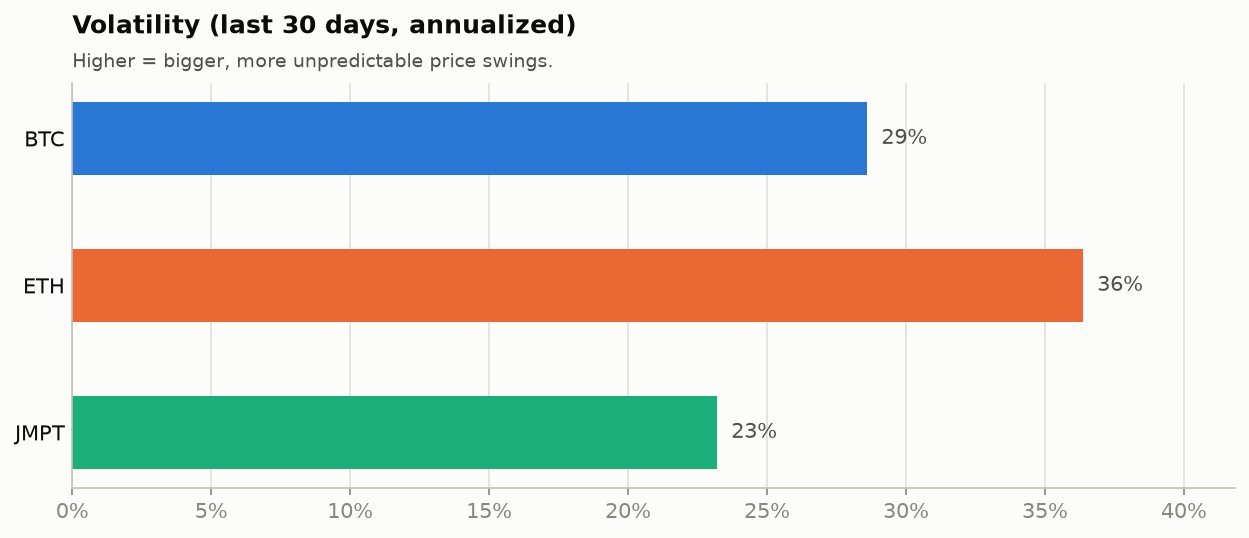
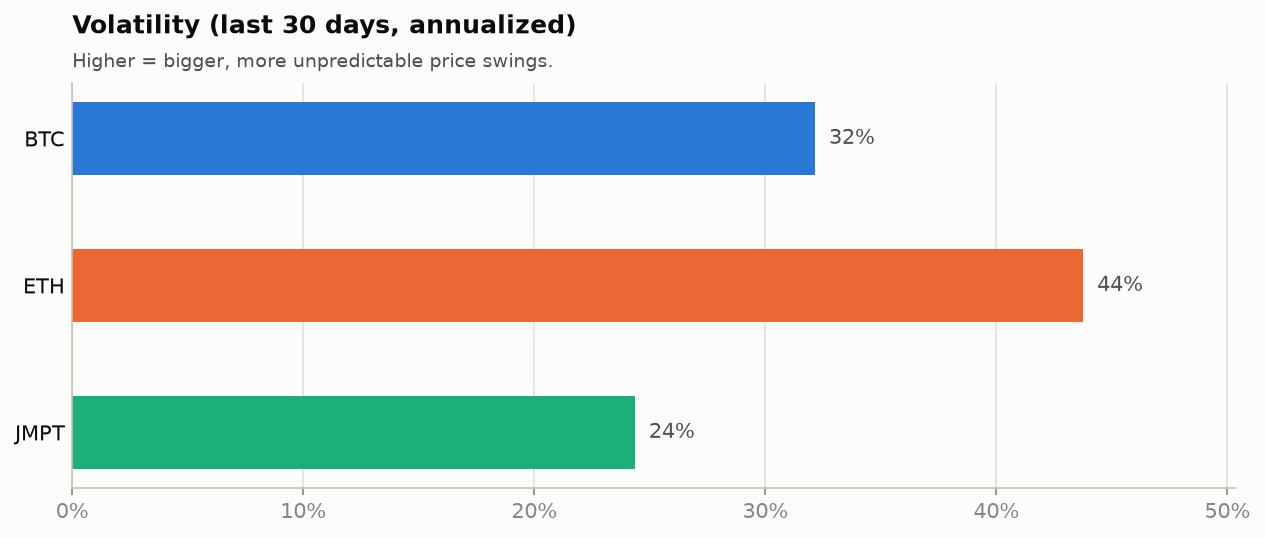
data: market update 2026-11-05

diff --git a/README.md b/README.md
@@ -9,13 +9,13 @@ The project compares two of the largest cryptocurrencies with a small-cap token:
 ## Latest stats
 
 <!-- STATS:START -->
-_Snapshot as of **2026-11-04 00:00 UTC**. Updated automatically every day._
+_Snapshot as of **2026-11-05 00:00 UTC**. Updated automatically every day._
 
 | Coin | Price | 1 day | 7 days | 30 days | 1 year | Volatility (30d) | Market cap |
 |:--|--:|--:|--:|--:|--:|--:|--:|
-| **BTC** Bitcoin | $77,385 | ▲ +0.9% | ▼ -4.2% | ▼ -10.5% | ▼ -27.3% | 29% | $1.56T |
-| **ETH** Ethereum | $2,274 | ▲ +1.0% | ▼ -3.1% | ▼ -16.6% | ▼ -36.9% | 36% | $277.81B |
-| **JMPT** JumpToken | $0.5126 | ▼ -0.1% | ▼ -4.4% | ▼ -11.7% | ▼ -41.4% | 23% | $7.57M |
+| **BTC** Bitcoin | $80,443 | ▲ +4.0% | ▼ -1.0% | ▼ -6.2% | ▼ -20.7% | 32% | $1.62T |
+| **ETH** Ethereum | $2,423 | ▲ +6.6% | ▲ +2.8% | ▼ -10.6% | ▼ -26.2% | 44% | $296.07B |
+| **JMPT** JumpToken | $0.5218 | ▲ +1.8% | ▼ -3.7% | ▼ -9.4% | ▼ -38.2% | 24% | $7.70M |
 <!-- STATS:END -->
 
 ## Charts
